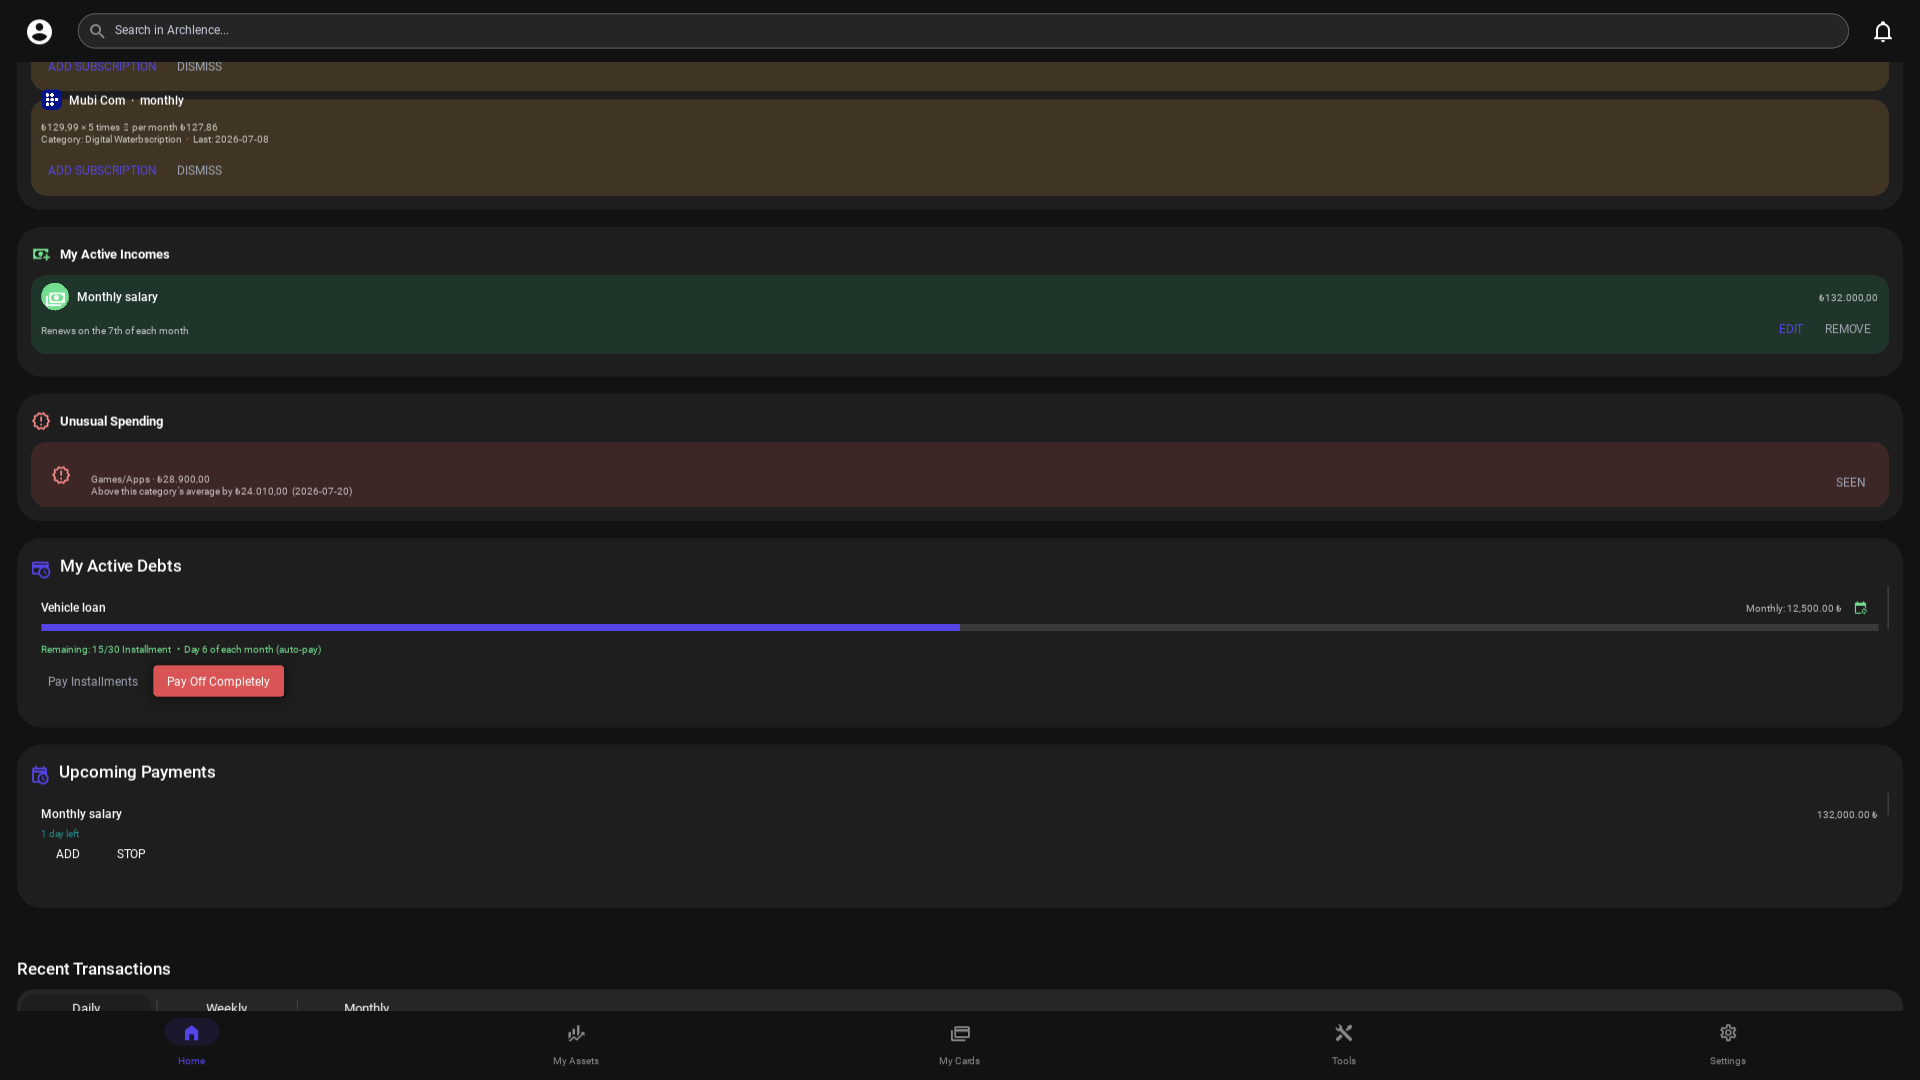
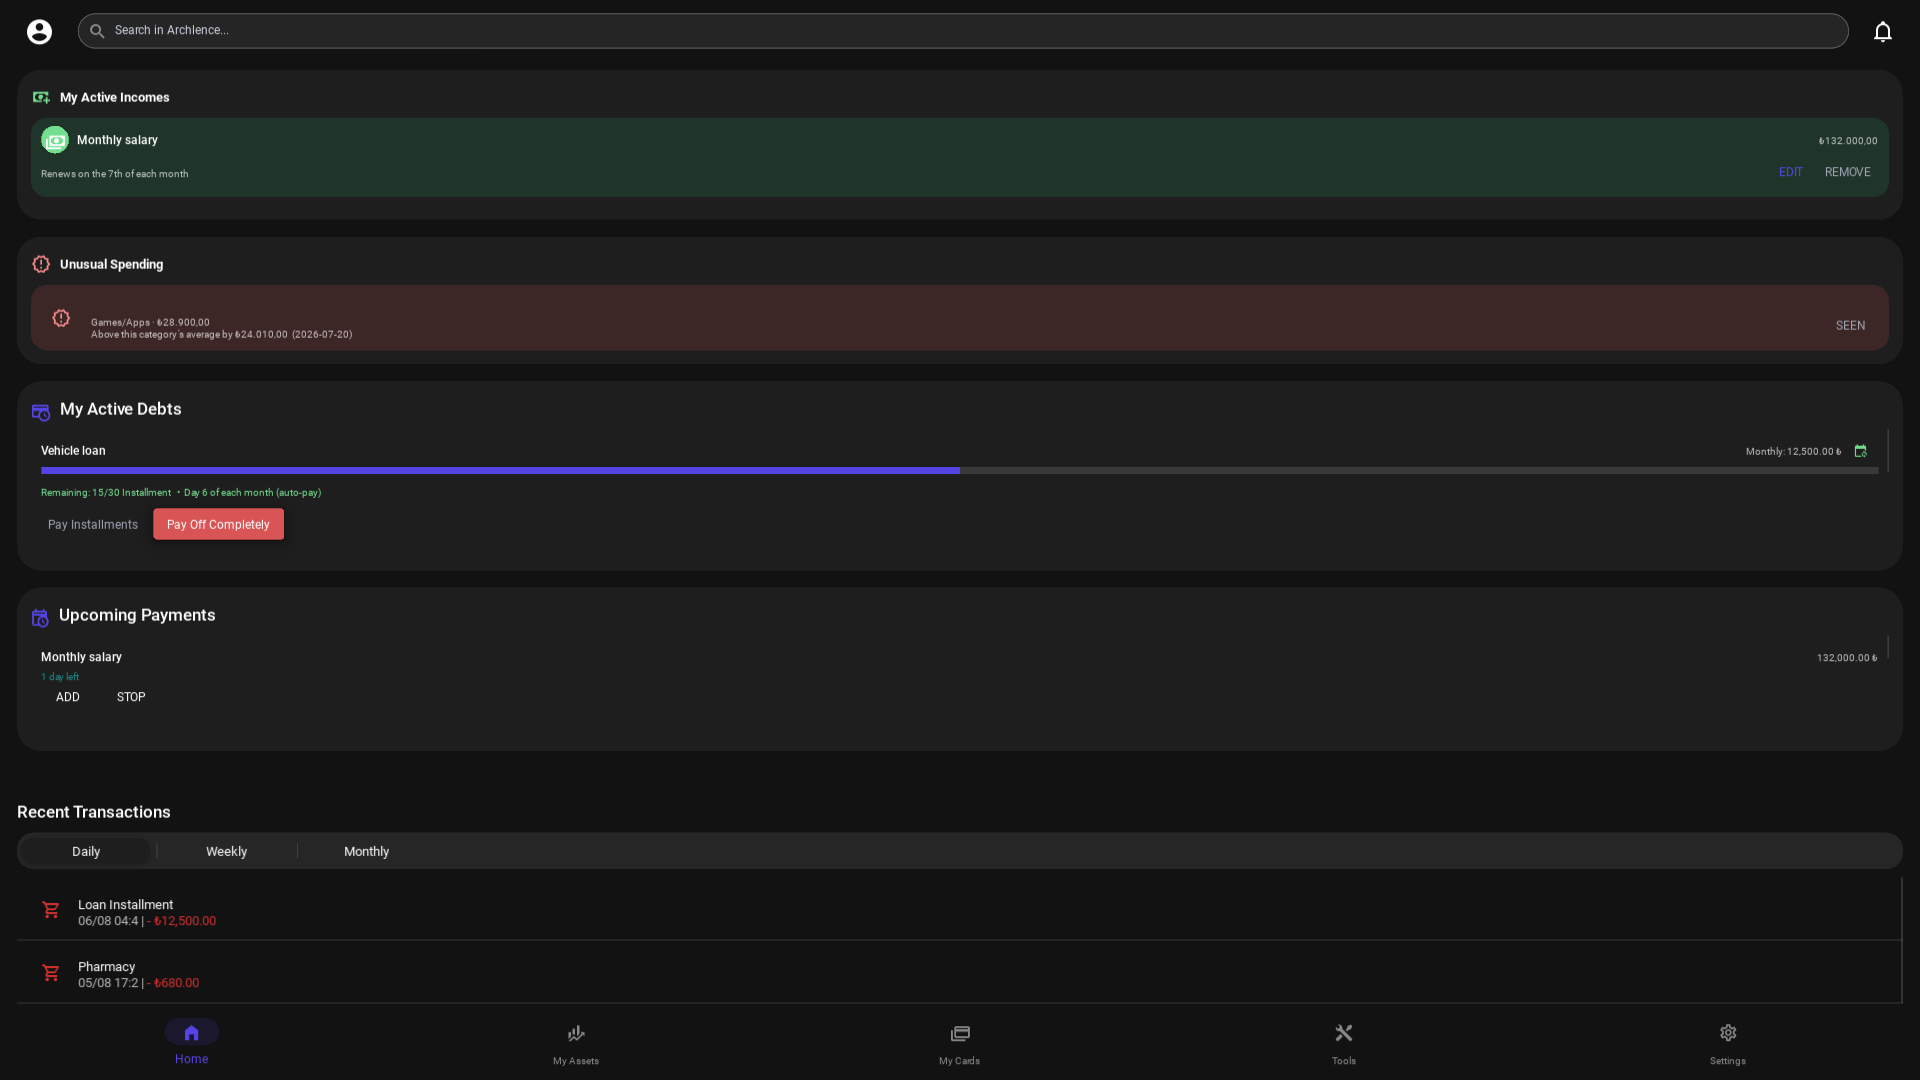
docs: polish README screenshot captures

diff --git a/scripts/dev/capture_readme_screens.py b/scripts/dev/capture_readme_screens.py
@@ -41,6 +41,13 @@ def parse_args():
         "--delay", type=float, default=1.8,
         help="Seconds allowed for each target view to settle",
     )
+    parser.add_argument(
+        "--screens",
+        nargs="+",
+        choices=SCREEN_NAMES,
+        default=list(SCREEN_NAMES),
+        help="Capture only these filenames (default: all eight)",
+    )
     return parser.parse_args()
 
 
@@ -111,7 +118,7 @@ class ReadmeCaptureApp(ArchlenceApp):
     def __init__(self, **kwargs):
         super().__init__(**kwargs)
         self._capture_index = 0
-        self._captures = [
+        all_captures = [
             ("dashboard.png", "home_tab", self.prepare_dashboard),
             ("portfolio-overview.png", "assets_tab", self.prepare_portfolio),
             ("asset-history.png", "assets_tab", self.prepare_asset_history),
@@ -121,6 +128,8 @@ class ReadmeCaptureApp(ArchlenceApp):
             ("financial-tools.png", "tools_tab", self.prepare_tools),
             ("settings.png", "settings_tab", self.prepare_settings),
         ]
+        requested = set(ARGS.screens)
+        self._captures = [item for item in all_captures if item[0] in requested]
 
     def on_start(self):
         super().on_start()
@@ -132,6 +141,7 @@ class ReadmeCaptureApp(ArchlenceApp):
         manager.current = "home"
         self.root.ids.login_error_label.text = ""
         self.root.ids.password_input.text = ""
+        self.set_language("en", persist=False)
         self.change_home_filter(self.tr("1 Yıl"))
         Clock.schedule_once(self._capture_next, 2.5)
 
@@ -189,8 +199,37 @@ class ReadmeCaptureApp(ArchlenceApp):
             scroll.scroll_y = fallback_y
         return scroll
 
+    def _align_section_top(self, target_id, top_margin=8):
+        """Place a complete section card just below the application toolbar."""
+        target = self.root.ids.get(target_id)
+        scroll = self._find_scroll(target) if target else None
+        if not (scroll and target):
+            return scroll
+        scroll.scroll_to(target, padding=0, animate=False)
+
+        def align(_dt):
+            # ``scroll_to`` only guarantees visibility.  Move the resolved
+            # top edge to a deliberate viewport coordinate in the same
+            # coordinate system used by Kivy's own implementation.
+            target_top = scroll.parent.to_widget(
+                *target.to_window(target.right, target.top)
+            )[1]
+            desired_top = scroll.top - top_margin
+            _dsx, dsy = scroll.convert_distance_to_scroll(
+                0, desired_top - target_top
+            )
+            scroll.scroll_y = max(0.0, min(1.0, scroll.scroll_y - dsy))
+
+        Clock.schedule_once(align, 0.05)
+        return scroll
+
     def prepare_dashboard(self, filename):
         self.change_home_filter(self.tr("1 Yıl"))
+        # Apply one synchronous result so the selected button, title, nominal
+        # change and percentage are guaranteed to describe the same period.
+        metrics = self._compute_dashboard_metrics()
+        self._apply_dashboard_metrics(metrics)
+        self.sync_filter_buttons_ui()
         self.refresh_dashboard_data(list_filter="1 Yıl")
         self._scroll_top("chart_master_box")
         self._save(filename, 1.5)
@@ -220,13 +259,13 @@ class ReadmeCaptureApp(ArchlenceApp):
 
     def prepare_subscriptions(self, filename):
         self.refresh_insights()
-        self._scroll_to("active_subscriptions_rv", fallback_y=0.56, padding=54)
+        self._align_section_top("active_subscriptions_card")
         self._save(filename, 1.4)
 
     def prepare_debts(self, filename):
         self.load_active_debts()
         self.refresh_insights()
-        self._scroll_to("active_debts_container", fallback_y=0.24, padding=54)
+        self._align_section_top("active_incomes_card")
         self._save(filename, 1.4)
 
     def prepare_tools(self, filename):
